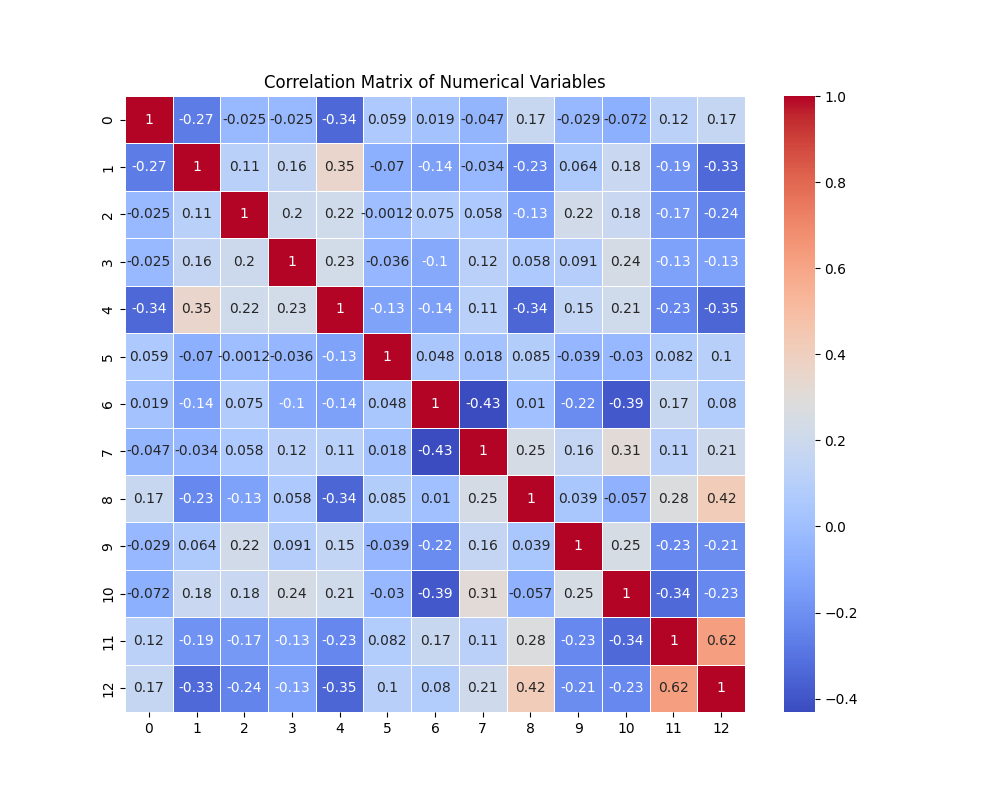
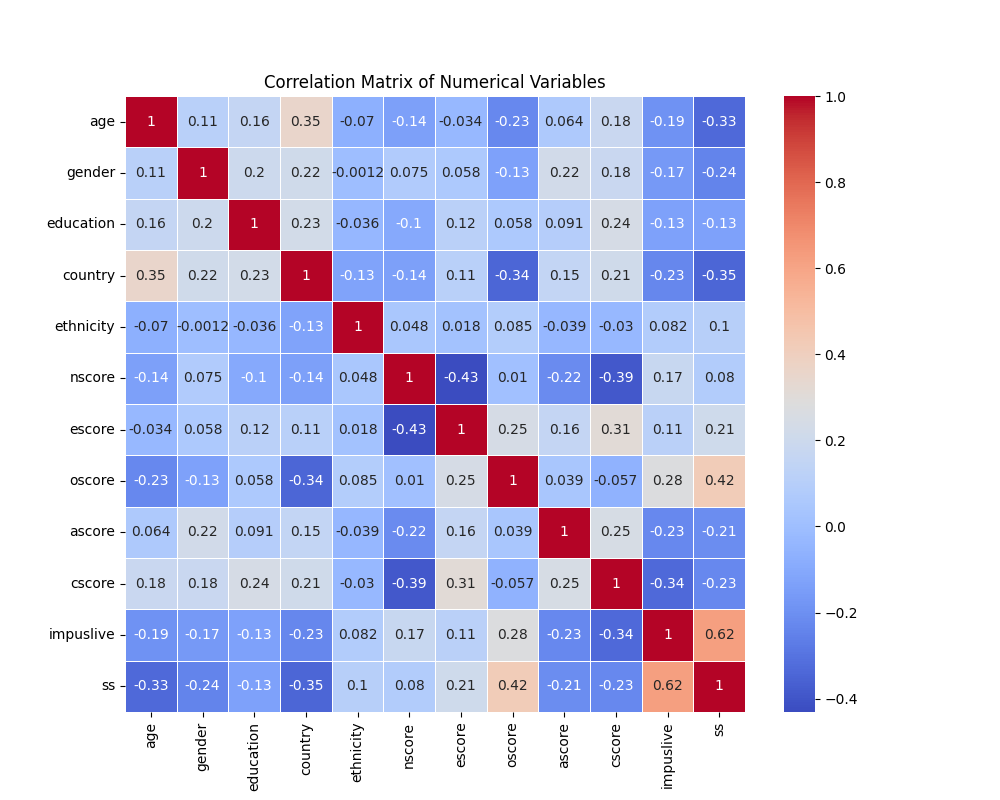
changes

diff --git a/data_explore_tests.py b/data_explore_tests.py
@@ -1,0 +1,101 @@
+# Import necessary libraries
+import pandas as pd
+import matplotlib.pyplot as plt
+import seaborn as sns
+from ucimlrepo import fetch_ucirepo
+
+# Fetch the dataset
+drug_consumption_quantified = fetch_ucirepo(id=373)
+
+# Data (as pandas dataframes)
+X = drug_consumption_quantified.data.features
+y = drug_consumption_quantified.data.targets
+
+# Metadata
+print(drug_consumption_quantified.metadata)
+
+# Print the first and last 10 rows of the dataset
+print("First 10 rows of the dataset:\n", X.head(10))
+print("Last 10 rows of the dataset:\n", X.tail(10))
+
+# Print the columns and their data types
+print("Columns and their data types:\n", X.dtypes)
+
+# Create a markdown file for data exploration report
+with open("data_exploration_report.md", "w") as report:
+    report.write("## Overview of Data Exploration\n\n")
+    
+    # Summary of the dataset
+    report.write("### Dataset Overview:\n")
+    report.write(f"- The dataset contains {X.shape[0]} entries and {X.shape[1]} columns.\n")
+    report.write("- The columns represent demographic data, personality traits (NEO-FFI-R), impulsivity, and sensation seeking scores.\n")
+    report.write("- Target columns represent the use of 18 legal and illegal drugs.\n")
+    report.write("- The data appears to be clean with no missing values.\n\n")
+    
+    # Display column names and types
+    report.write("### Columns and Their Data Types:\n")
+    report.write("```plaintext\n")
+    report.write(str(X.dtypes) + "\n")
+    report.write("```\n\n")
+    
+    # Show first 10 rows of the data
+    report.write("## First 10 Rows of the Dataset\n\n")
+    report.write("```plaintext\n")
+    report.write(str(X.head(10)) + "\n")
+    report.write("```\n\n")
+    
+    # Show last 10 rows of the data
+    report.write("## Last 10 Rows of the Dataset\n\n")
+    report.write("```plaintext\n")
+    report.write(str(X.tail(10)) + "\n")
+    report.write("```\n\n")
+    
+    # Summary statistics for the numerical columns (Personality Traits and Demographics)
+    report.write("## Summary Statistics for Numerical Columns\n\n")
+    report.write("```plaintext\n")
+    report.write(str(X.describe()) + "\n")
+    report.write("```\n\n")
+
+# Visualize some data distributions
+# Plot age distribution
+plt.figure(figsize=(10, 6))
+sns.histplot(X['age'], bins=30, kde=True)
+plt.title('Age Distribution')
+plt.savefig('age_distribution.png')
+plt.close()
+
+# Plot gender distribution
+plt.figure(figsize=(10, 6))
+sns.countplot(x='gender', data=X)
+plt.title('Gender Distribution')
+plt.savefig('gender_distribution.png')
+plt.close()
+
+# Create histograms for the personality traits (NEO-FFI-R)
+personality_columns = ['nscore', 'escore', 'oscore', 'ascore', 'cscore']
+for col in personality_columns:
+    plt.figure(figsize=(10, 6))
+    sns.histplot(X[col], bins=30, kde=True)
+    plt.title(f'Distribution of {col.upper()}')
+    plt.savefig(f'{col}_distribution.png')
+    plt.close()
+
+# Add plots to the markdown file
+with open("data_exploration_report_test.md", "a") as report:
+    report.write("## Age Distribution\n")
+    report.write("![Age Distribution](age_distribution.png)\n\n")
+    
+    report.write("## Gender Distribution\n")
+    report.write("![Gender Distribution](gender_distribution.png)\n\n")
+    
+    report.write("## Personality Trait Distributions\n")
+    for col in personality_columns:
+        report.write(f"![Distribution of {col.upper()}]({col}_distribution.png)\n\n")
+
+# Summary statistics for drug consumption targets
+y_summary = y.describe()
+with open("data_exploration_report.md", "a") as report:
+    report.write("## Summary of Drug Consumption Targets\n\n")
+    report.write("```plaintext\n")
+    report.write(str(y_summary) + "\n")
+    report.write("```\n\n")

diff --git a/data_exploration_report.md b/data_exploration_report.md
@@ -1,195 +1,85 @@
 ## Overview of Data Exploration
 
 ### Dataset Overview:
-- The dataset contains **1885 entries** and **32 columns**.
-- The first 13 columns are **numerical** (with types int64 and float64), while columns 13 to 31 are **categorical** (type object), which seem to hold values like `CL0`, `CL1`, etc.
-- No missing values were detected in the dataset, as all columns have a full count of non-null values.
-- There are no duplicate rows in the dataset.
+- The dataset contains 1885 entries and 12 columns.
+- The columns represent demographic data, personality traits (NEO-FFI-R), impulsivity, and sensation seeking scores.
+- Target columns represent the use of 18 legal and illegal drugs.
+- The data appears to be clean with no missing values.
 
-### Numerical Data Insights:
-- The numerical columns show a wide range of values, with some having extreme values (e.g., column 9 with a minimum value of -3.46 and a maximum of 3.46).
-- The summary statistics (mean, standard deviation, min, max, etc.) provide insight into the distribution of these numerical features.
-- The correlation matrix shows some moderate correlations between variables, particularly between:
-  - Columns 1 and 4 (correlation = 0.354)
-  - Columns 11 and 12 (correlation = 0.623)
-  - Columns 8 and 12 (correlation = 0.421)
-- This suggests there might be interdependencies between some of the numerical features.
+### Columns and Their Data Types:
+```plaintext
+age          float64
+gender       float64
+education    float64
+country      float64
+ethnicity    float64
+nscore       float64
+escore       float64
+oscore       float64
+ascore       float64
+cscore       float64
+impuslive    float64
+ss           float64
+dtype: object
+```
 
-### Categorical Data Insights:
-- Categorical columns (13 to 31) have **7 unique values** (ranging from `CL0` to `CL6`), with frequencies indicating some dominant categories like `CL0` and `CL6`.
-- For example:
-  - Column 13 has `CL5` as the most frequent value, with 759 occurrences.
-  - Column 31 has `CL0` as the most frequent value, with 1455 occurrences.
-- This could indicate a skewness in categorical variables, with some categories being much more common than others.
-
-## First Few Rows of the Dataset
+## First 10 Rows of the Dataset
 
 ```plaintext
-   0        1        2        3        4        5        6   ...   25   26   27   28   29   30   31
-0   1  0.49788  0.48246 -0.05921  0.96082  0.12600  0.31287  ...  CL0  CL0  CL0  CL0  CL2  CL0  CL0
-1   2 -0.07854 -0.48246  1.98437  0.96082 -0.31685 -0.67825  ...  CL0  CL2  CL3  CL0  CL4  CL0  CL0
-2   3  0.49788 -0.48246 -0.05921  0.96082 -0.31685 -0.46725  ...  CL0  CL0  CL0  CL1  CL0  CL0  CL0
-3   4 -0.95197  0.48246  1.16365  0.96082 -0.31685 -0.14882  ...  CL0  CL0  CL0  CL0  CL2  CL0  CL0
-4   5  0.49788  0.48246  1.98437  0.96082 -0.31685  0.73545  ...  CL1  CL0  CL0  CL2  CL2  CL0  CL0
+       age   gender  education  country  ethnicity   nscore   escore   oscore   ascore   cscore  impuslive       ss
+0  0.49788  0.48246   -0.05921  0.96082    0.12600  0.31287 -0.57545 -0.58331 -0.91699 -0.00665   -0.21712 -1.18084
+1 -0.07854 -0.48246    1.98437  0.96082   -0.31685 -0.67825  1.93886  1.43533  0.76096 -0.14277   -0.71126 -0.21575
+2  0.49788 -0.48246   -0.05921  0.96082   -0.31685 -0.46725  0.80523 -0.84732 -1.62090 -1.01450   -1.37983  0.40148
+3 -0.95197  0.48246    1.16365  0.96082   -0.31685 -0.14882 -0.80615 -0.01928  0.59042  0.58489   -1.37983 -1.18084
+4  0.49788  0.48246    1.98437  0.96082   -0.31685  0.73545 -1.63340 -0.45174 -0.30172  1.30612   -0.21712 -0.21575
+5  2.59171  0.48246   -1.22751  0.24923   -0.31685 -0.67825 -0.30033 -1.55521  2.03972  1.63088   -1.37983 -1.54858
+6  1.09449 -0.48246    1.16365 -0.57009   -0.31685 -0.46725 -1.09207 -0.45174 -0.30172  0.93949   -0.21712  0.07987
+7  0.49788 -0.48246   -1.73790  0.96082   -0.31685 -1.32828  1.93886 -0.84732 -0.30172  1.63088    0.19268 -0.52593
+8  0.49788  0.48246   -0.05921  0.24923   -0.31685  0.62967  2.57309 -0.97631  0.76096  1.13407   -1.37983 -1.54858
+9  1.82213 -0.48246    1.16365  0.96082   -0.31685 -0.24649  0.00332 -1.42424  0.59042  0.12331   -1.37983 -0.84637
+```
 
-[5 rows x 32 columns]
+## Last 10 Rows of the Dataset
+
+```plaintext
+          age   gender  education  country  ethnicity   nscore   escore   oscore   ascore   cscore  impuslive       ss
+1875 -0.95197 -0.48246   -0.61113 -0.57009    0.12600 -0.05188 -1.76250  0.58331 -0.76096 -0.14277    1.29221  1.22470
+1876 -0.07854 -0.48246   -0.61113  0.24923    0.11440 -0.14882 -0.57545  1.43533 -0.91699 -0.78155    0.52975  0.40148
+1877 -0.95197 -0.48246   -1.43719 -0.57009   -0.31685  1.49158 -1.92173 -0.58331 -1.77200  0.58489   -0.21712  1.22470
+1878 -0.95197 -0.48246    0.45468  0.24923   -0.31685 -0.05188 -1.76250  0.88309 -0.76096  2.33337   -0.71126 -0.21575
+1879 -0.95197 -0.48246   -0.61113 -0.28519   -0.31685 -0.79151  0.32197  0.29338 -0.30172 -0.27607    0.88113  0.76540
+1880 -0.95197  0.48246   -0.61113 -0.57009   -0.31685 -1.19430  1.74091  1.88511  0.76096 -1.13788    0.88113  1.92173
+1881 -0.95197 -0.48246   -0.61113 -0.57009   -0.31685 -0.24649  1.74091  0.58331  0.76096 -1.51840    0.88113  0.76540
+1882 -0.07854  0.48246    0.45468 -0.57009   -0.31685  1.13281 -1.37639 -1.27553 -1.77200 -1.38502    0.52975 -0.52593
+1883 -0.95197  0.48246   -0.61113 -0.57009   -0.31685  0.91093 -1.92173  0.29338 -1.62090 -2.57309    1.29221  1.22470
+1884 -0.95197 -0.48246   -0.61113  0.21128   -0.31685 -0.46725  2.12700  1.65653  1.11406  0.41594    0.88113  1.22470
 ```
 
 ## Summary Statistics for Numerical Columns
 
 ```plaintext
-                0           1            2   ...           10           11           12
-count  1885.000000  1885.00000  1885.000000  ...  1885.000000  1885.000000  1885.000000
-mean    945.294960     0.03461    -0.000256  ...    -0.000386     0.007216    -0.003292
-std     545.167641     0.87836     0.482588  ...     0.997523     0.954435     0.963701
-min       1.000000    -0.95197    -0.482460  ...    -3.464360    -2.555240    -2.078480
-25%     474.000000    -0.95197    -0.482460  ...    -0.652530    -0.711260    -0.525930
-50%     946.000000    -0.07854    -0.482460  ...    -0.006650    -0.217120     0.079870
-75%    1417.000000     0.49788     0.482460  ...     0.584890     0.529750     0.765400
-max    1888.000000     2.59171     0.482460  ...     3.464360     2.901610     1.921730
+              age       gender    education      country  ...       ascore       cscore    impuslive           ss
+count  1885.00000  1885.000000  1885.000000  1885.000000  ...  1885.000000  1885.000000  1885.000000  1885.000000
+mean      0.03461    -0.000256    -0.003806     0.355542  ...    -0.000245    -0.000386     0.007216    -0.003292
+std       0.87836     0.482588     0.950078     0.700335  ...     0.997440     0.997523     0.954435     0.963701
+min      -0.95197    -0.482460    -2.435910    -0.570090  ...    -3.464360    -3.464360    -2.555240    -2.078480
+25%      -0.95197    -0.482460    -0.611130    -0.570090  ...    -0.606330    -0.652530    -0.711260    -0.525930
+50%      -0.07854    -0.482460    -0.059210     0.960820  ...    -0.017290    -0.006650    -0.217120     0.079870
+75%       0.49788     0.482460     0.454680     0.960820  ...     0.760960     0.584890     0.529750     0.765400
+max       2.59171     0.482460     1.984370     0.960820  ...     3.464360     3.464360     2.901610     1.921730
 
-[8 rows x 13 columns]
+[8 rows x 12 columns]
 ```
 
-## Summary Statistics for Categorical Columns
+## Summary of Drug Consumption Targets
 
 ```plaintext
-          13    14    15    16    17    18    19  ...    25    26    27    28    29    30    31
-count   1885  1885  1885  1885  1885  1885  1885  ...  1885  1885  1885  1885  1885  1885  1885
-unique     7     7     7     7     7     7     7  ...     7     7     7     7     7     5     7
-top      CL5   CL0   CL0   CL0   CL6   CL6   CL6  ...   CL0   CL0   CL0   CL0   CL6   CL0   CL0
-freq     759   976  1305  1000  1385   463   807  ...  1094  1069  1429   982   610  1877  1455
+       alcohol amphet  amyl benzos  caff cannabis  choc  coke  ... ketamine legalh   lsd  meth mushrooms nicotine semer   vsa
+count     1885   1885  1885   1885  1885     1885  1885  1885  ...     1885   1885  1885  1885      1885     1885  1885  1885
+unique       7      7     7      7     7        7     7     7  ...        7      7     7     7         7        7     5     7
+top        CL5    CL0   CL0    CL0   CL6      CL6   CL6   CL0  ...      CL0    CL0   CL0   CL0       CL0      CL6   CL0   CL0
+freq       759    976  1305   1000  1385      463   807  1038  ...     1490   1094  1069  1429       982      610  1877  1455
 
 [4 rows x 19 columns]
 ```
-
-## Missing Values in Each Column
-
-```plaintext
-0     0
-1     0
-2     0
-3     0
-4     0
-5     0
-6     0
-7     0
-8     0
-9     0
-10    0
-11    0
-12    0
-13    0
-14    0
-15    0
-16    0
-17    0
-18    0
-19    0
-20    0
-21    0
-22    0
-23    0
-24    0
-25    0
-26    0
-27    0
-28    0
-29    0
-30    0
-31    0
-dtype: int64
-```
-
-## Number of Duplicate Rows: 0
-
-## Correlation Matrix for Numerical Columns
-
-```plaintext
-          0         1         2         3   ...        9         10        11        12
-0   1.000000 -0.271395 -0.025467 -0.025253  ... -0.028782 -0.072094  0.119663  0.165882
-1  -0.271395  1.000000  0.110286  0.158811  ...  0.063504  0.183564 -0.190939 -0.332188
-2  -0.025467  0.110286  1.000000  0.196774  ...  0.219743  0.183831 -0.167492 -0.244277
-3  -0.025253  0.158811  0.196774  1.000000  ...  0.091088  0.240417 -0.132482 -0.131146
-4  -0.340751  0.354241  0.216271  0.225311  ...  0.150921  0.214000 -0.231572 -0.345415
-5   0.059309 -0.069753 -0.001213 -0.036099  ... -0.038726 -0.029923  0.082411  0.100304
-6   0.018639 -0.136654  0.074646 -0.100993  ... -0.216964 -0.391088  0.174399  0.079988
-7  -0.046960 -0.033849  0.057864  0.115645  ...  0.157336  0.308024  0.114151  0.210130
-8   0.173565 -0.226778 -0.131021  0.057994  ...  0.038516 -0.056811  0.277512  0.421709
-9  -0.028782  0.063504  0.219743  0.091088  ...  1.000000  0.247482 -0.229690 -0.208061
-10 -0.072094  0.183564  0.183831  0.240417  ...  0.247482  1.000000 -0.335133 -0.229038
-11  0.119663 -0.190939 -0.167492 -0.132482  ... -0.229690 -0.335133  1.000000  0.623120
-12  0.165882 -0.332188 -0.244277 -0.131146  ... -0.208061 -0.229038  0.623120  1.000000
-
-[13 rows x 13 columns]
-```
-
-## Distribution Plots for Numerical Columns
-![Distribution of Column 0](distribution_column_0.png)
-
-![Distribution of Column 1](distribution_column_1.png)
-
-![Distribution of Column 2](distribution_column_2.png)
-
-![Distribution of Column 3](distribution_column_3.png)
-
-![Distribution of Column 4](distribution_column_4.png)
-
-![Distribution of Column 5](distribution_column_5.png)
-
-![Distribution of Column 6](distribution_column_6.png)
-
-![Distribution of Column 7](distribution_column_7.png)
-
-![Distribution of Column 8](distribution_column_8.png)
-
-![Distribution of Column 9](distribution_column_9.png)
-
-![Distribution of Column 10](distribution_column_10.png)
-
-![Distribution of Column 11](distribution_column_11.png)
-
-![Distribution of Column 12](distribution_column_12.png)
-
-## Correlation Heatmap
-![Correlation Matrix](correlation_matrix.png)
-
-## Bar Plots for Categorical Columns
-![Categorical Column 13](categorical_column_13.png)
-
-![Categorical Column 14](categorical_column_14.png)
-
-![Categorical Column 15](categorical_column_15.png)
-
-![Categorical Column 16](categorical_column_16.png)
-
-![Categorical Column 17](categorical_column_17.png)
-
-![Categorical Column 18](categorical_column_18.png)
-
-![Categorical Column 19](categorical_column_19.png)
-
-![Categorical Column 20](categorical_column_20.png)
-
-![Categorical Column 21](categorical_column_21.png)
-
-![Categorical Column 22](categorical_column_22.png)
-
-![Categorical Column 23](categorical_column_23.png)
-
-![Categorical Column 24](categorical_column_24.png)
-
-![Categorical Column 25](categorical_column_25.png)
-
-![Categorical Column 26](categorical_column_26.png)
-
-![Categorical Column 27](categorical_column_27.png)
-
-![Categorical Column 28](categorical_column_28.png)
-
-![Categorical Column 29](categorical_column_29.png)
-
-![Categorical Column 30](categorical_column_30.png)
-
-![Categorical Column 31](categorical_column_31.png)
 

diff --git a/data_exploration_report_test.md b/data_exploration_report_test.md
@@ -1,0 +1,17 @@
+## Age Distribution
+![Age Distribution](age_distribution.png)
+
+## Gender Distribution
+![Gender Distribution](gender_distribution.png)
+
+## Personality Trait Distributions
+![Distribution of NSCORE](nscore_distribution.png)
+
+![Distribution of ESCORE](escore_distribution.png)
+
+![Distribution of OSCORE](oscore_distribution.png)
+
+![Distribution of ASCORE](ascore_distribution.png)
+
+![Distribution of CSCORE](cscore_distribution.png)
+

diff --git a/README.md b/README.md
@@ -1,2 +1,2 @@
-# Drug_consumption
- 
+# Drug_consumption2
+ Supervised Machine Learning project to predict Drug consumption based on personality traits
